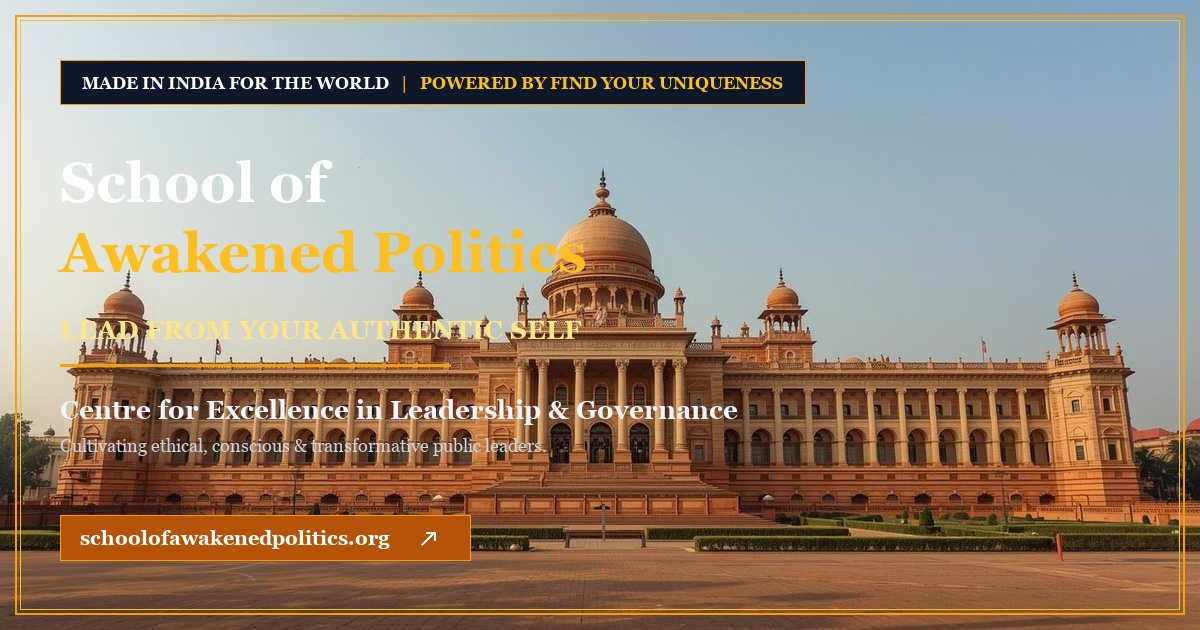
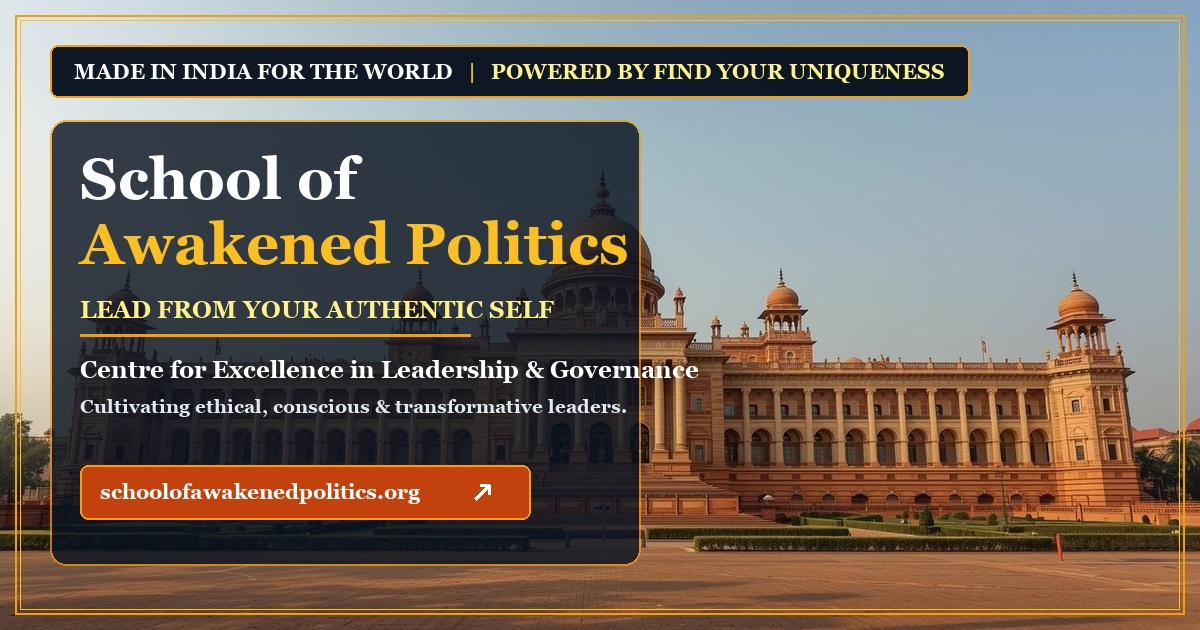
feat(og): apply frosted glass plaque design for crisp readability on mobile

diff --git a/index.html b/index.html
@@ -18,7 +18,7 @@
   <meta property="og:type" content="website">
   <meta property="og:url" content="https://schoolofawakenedpolitics.org/">
   <meta property="og:title" content="School of Awakened Politics | Nurturing Consciously Engineered World Leaders">
-  <meta property="og:image" content="https://schoolofawakenedpolitics.org/og-card.jpg?v=3">
+  <meta property="og:image" content="https://schoolofawakenedpolitics.org/og-card.jpg?v=4">
   <meta property="og:site_name" content="School of Awakened Politics">
   <meta property="og:locale" content="en_US">
 
@@ -27,7 +27,7 @@
   <meta name="twitter:url" content="https://schoolofawakenedpolitics.org/">
   <meta name="twitter:title" content="School of Awakened Politics | Lead from Your Authentic Self">
   <meta name="twitter:description" content="Pioneering modern political thought, political mindfulness, and transdisciplinary statecraft. Explore our flagship 1-Year Fellowship and Publishing Platform.">
-  <meta name="twitter:image" content="https://schoolofawakenedpolitics.org/og-card.jpg?v=3">
+  <meta name="twitter:image" content="https://schoolofawakenedpolitics.org/og-card.jpg?v=4">
 
   <!-- Schema.org JSON-LD Structured Data for Google Rich Snippets & Knowledge Graph -->
   <script type="application/ld+json">
